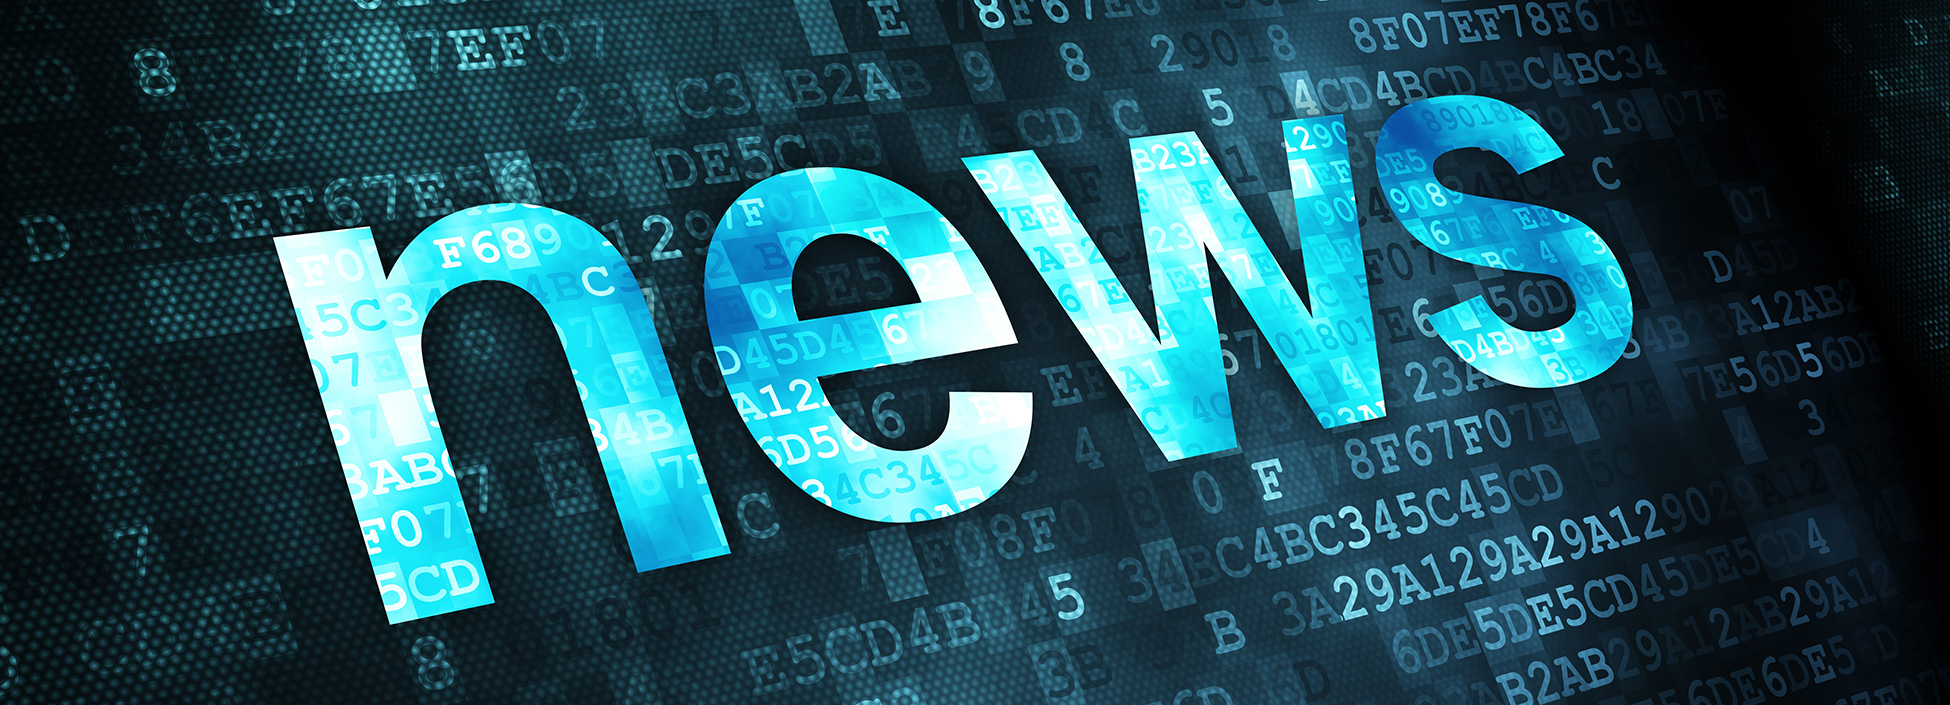
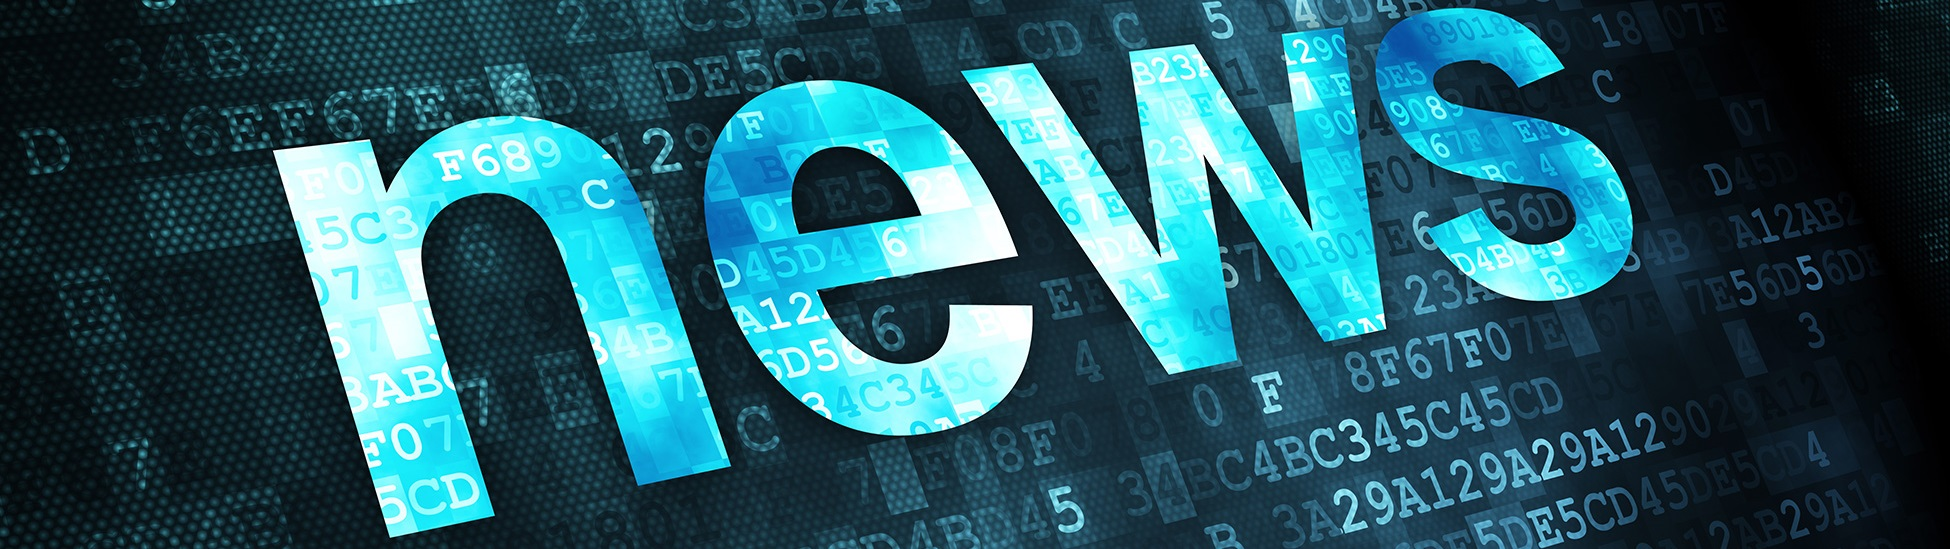
News page header changes

diff --git a/Jstylesheet.css b/Jstylesheet.css
@@ -180,10 +180,10 @@ div.meetTeam:hover {
 
 .newsSectionOne {
 	background-image: url(images/news/newsHeader.jpg);
-
+	background-attachment: scroll;
+	margin-top: 100px;
     background-position: center;
-
-	min-height: 600px;
+	height: 40%;
 }
 
 @media (max-width: 993px) {
@@ -256,6 +256,11 @@ div.meetTeam:hover {
 
     .section {
     	background-attachment: scroll;
+    }
+
+    .newsSectionOne {
+    	height: 25%;
+    	margin-top: 100px;
     }
 }
 
